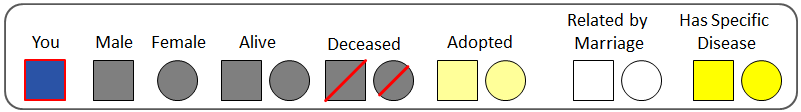
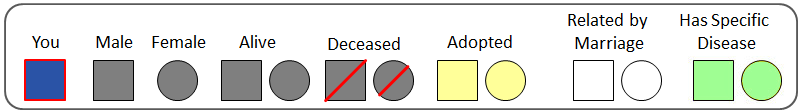
changed color of specific disease to green, added more translations for table

Changed region(s): [[0.8427, 0.5357, 0.9988, 0.9107]]

diff --git a/js/genogram.js b/js/genogram.js
@@ -4,7 +4,6 @@ var diagram_data;
 
 function init(diagram_data) { 
   this.diagram_data = diagram_data;
-  console.log(diagram_data)
   if (window.goSamples) goSamples();  // init for these samples -- you don't need to call this
   var $ = go.GraphObject.make;
   // if (typeof myDiagram == 'undefined') {
@@ -23,14 +22,12 @@ function init(diagram_data) {
     
   // determine the color for each attribute shape
       function attrFill(a) {
-        for (key in a.a) {
-          console.log(key);
-        }
+
         switch (a) {
           case "A": return "lightyellow"; // background color for adopted
           case "S": return "white"; // background color for spouse
           case "D": return "red"; // background color for deceased
-          case "SD": return "pink"; // background color for has specific disease
+          case "SD": return "#9ffe92"; // background color for has specific disease
           case "SELF": return "darkblue"; // background color for self
           default: return "lightgray"; // default background color
         }

diff --git a/themes/deploy/fhh.css b/themes/deploy/fhh.css
@@ -499,3 +499,30 @@ text-align:left;
 font-weight:bold;
 padding-bottom:10px;
 }
+
+.self_row {
+background-color:#FFFFCC;
+}
+
+
+hr#health_table {
+border:1px solid #00008B;
+}
+
+.health_table div.other_disease {
+background-color:#00008B;
+border-radius:12px;
+border:1px solid #00008B;
+color:#fff;
+padding:4px 0px 4px 10px;
+margin-bottom:5px;
+}
+
+
+ul#disease_list {
+list-style:none;
+}
+
+ul#disease_list li {
+display:inline;
+}

diff --git a/js/new_diagram.js b/js/new_diagram.js
@@ -23,7 +23,7 @@
 // }
 
 // set initial zoom scale
-var zoom_scale = 1;
+var zoom_scale = 2;
 
 function setup_new_diagram_dialog() {
 	// $("#nd").load ("new_diagram_dialog.html", function () {

diff --git a/static/css/bootstrap.min.css b/static/css/bootstrap.min.css
@@ -4907,6 +4907,7 @@ button.close {
 .modal-body {
   position: relative;
   padding: 20px;
+  text-align:left;
 }
 .modal-footer {
   padding: 19px 20px 20px;
